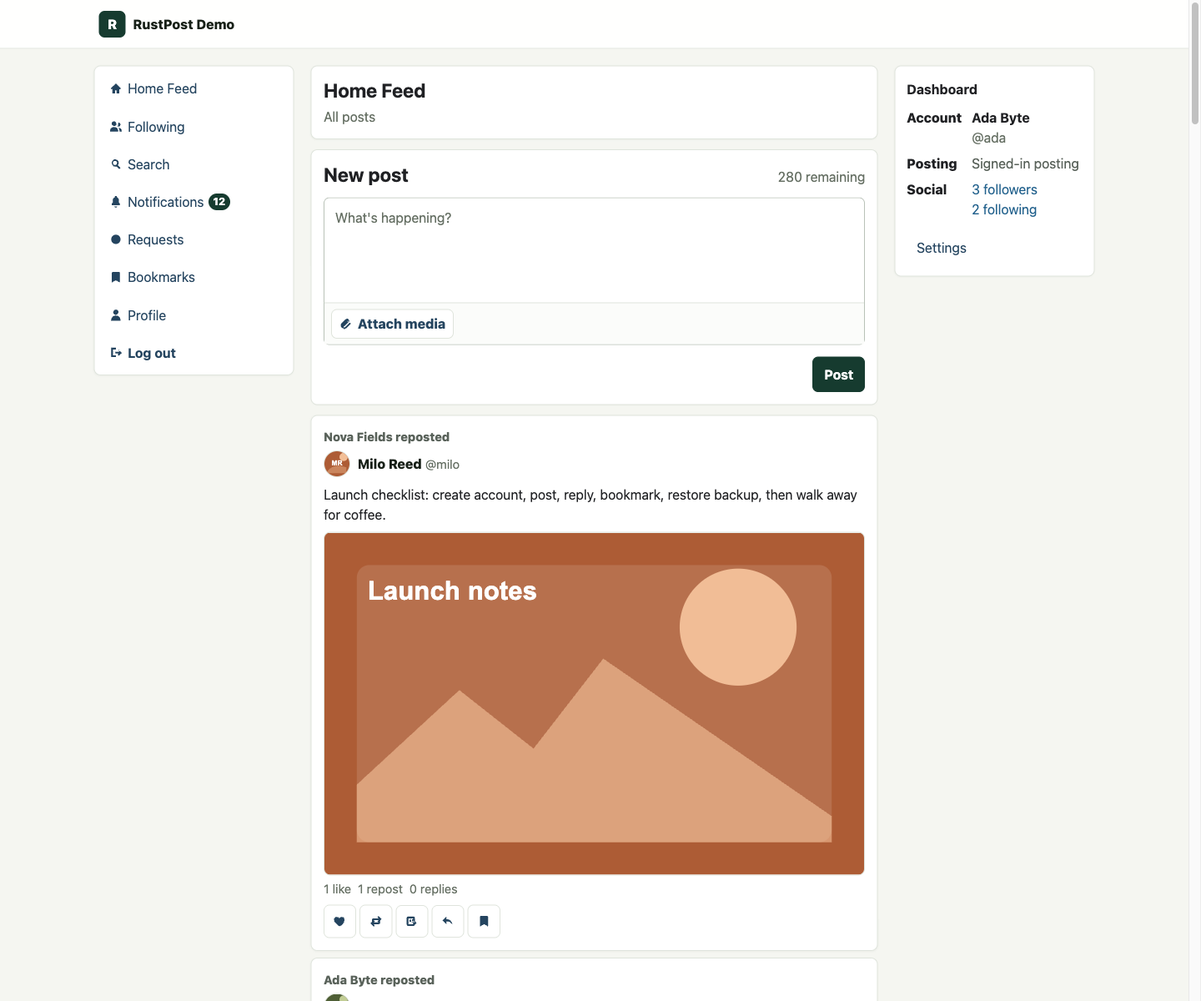
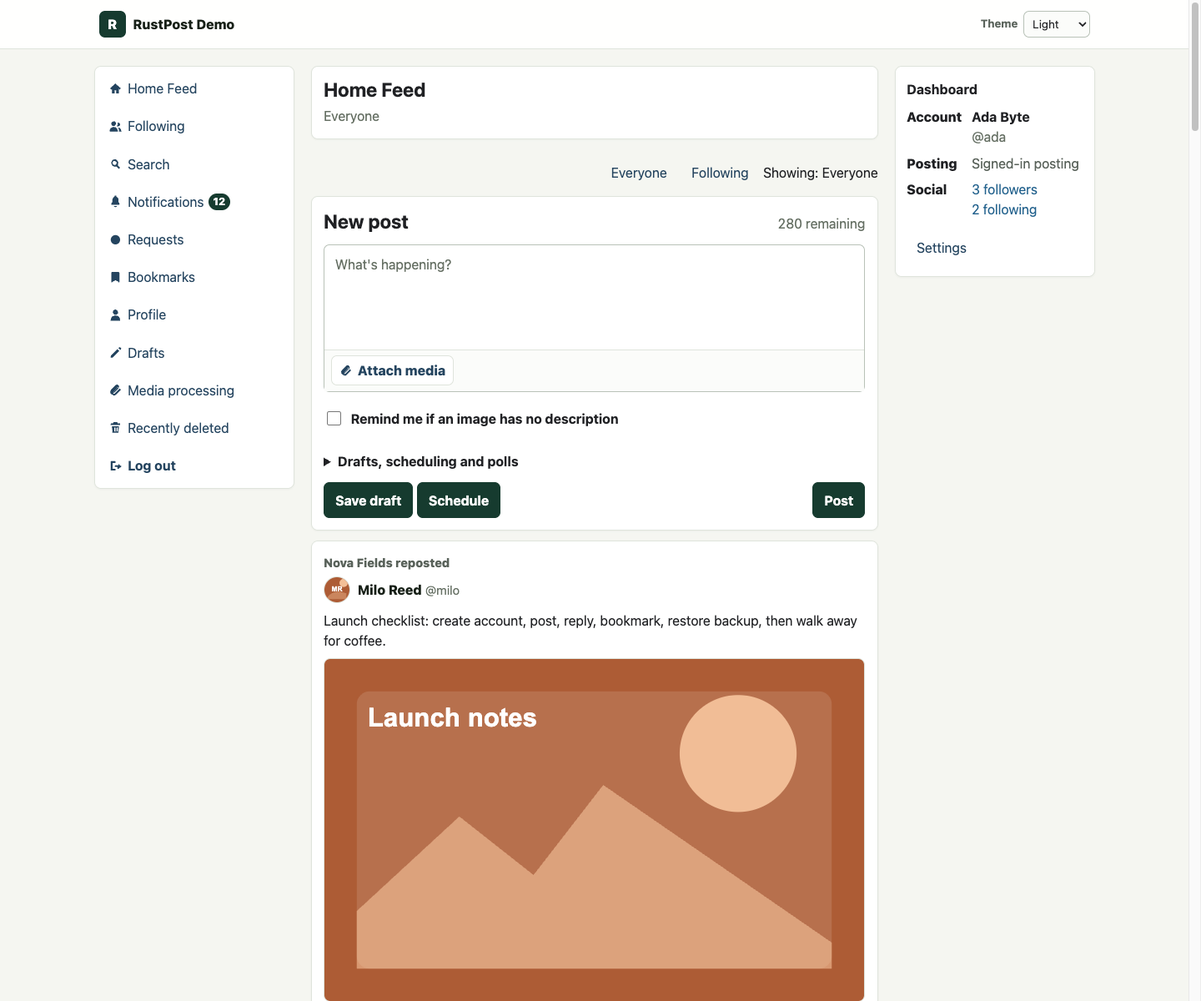
Remember the browser theme and refresh RustPost demos
Preserve existing account themes as fallback, document the recent interface refinements, and refresh compatible locked dependencies and workflow pins.

diff --git a/assets/site.css b/assets/site.css
@@ -16,7 +16,7 @@ main{padding:var(--shell-gap)}.app-shell{width:min(100%,var(--shell-max));margin
 .character-counter{display:inline-block;flex:0 0 auto;min-width:8.5rem;text-align:right;white-space:nowrap;font-variant-numeric:tabular-nums}.character-counter-normal{color:var(--muted)}.character-counter-warning{color:var(--warning)}.character-counter-danger{color:var(--danger)}
 .notifications-hero{background:var(--surface);border:1px solid var(--border);border-radius:8px;margin:0 0 var(--section-gap);padding:1rem;box-shadow:0 1px 2px var(--shadow);display:flex;align-items:center;justify-content:space-between;gap:1rem}.notifications-hero h1{margin:0;font-size:1.55rem;line-height:1.15}.notifications-hero p:not(.eyebrow){margin:.35rem 0 0;color:var(--muted-strong)}.caught-up-pill{display:inline-flex;align-items:center;min-height:2rem;border:1px solid var(--success-border);border-radius:999px;background:var(--success-bg);color:var(--text-strong);padding:.32rem .75rem;font-weight:800}.caught-up{padding:.75rem .85rem}.caught-up p{margin:0}.notification-group{margin:var(--section-gap) .15rem 0;color:var(--muted);font-size:.82rem;text-transform:uppercase;letter-spacing:.08em}.notification-group:first-child{margin-top:0}.notification-row{position:relative;display:grid;grid-template-columns:auto minmax(0,1fr) auto auto;gap:.75rem;align-items:start;background:var(--surface);border:1px solid var(--border);border-radius:8px;padding:.8rem;box-shadow:0 1px 2px var(--shadow)}.notification-row.unread{border-color:var(--border-strong);background:var(--surface-subtle)}.js-enabled .notification-row[data-card-href],.js-enabled .notification-row[data-card-form]{cursor:pointer}.js-enabled .notification-row[data-card-href]:hover,.js-enabled .notification-row[data-card-form]:hover{border-color:var(--border-strong);background:var(--hover)}.notification-kind{display:grid;place-items:center;width:2rem;height:2rem;border-radius:7px;background:var(--surface-muted);color:var(--link-strong);font-weight:900;font-size:.8rem}.notification-row.unread .notification-kind{background:var(--brand);color:var(--brand-text)}.notification-body{min-width:0}.notification-line{margin:0;overflow-wrap:anywhere}.notification-meta{margin:.35rem 0 0;color:var(--muted);font-size:.88rem}.notification-counts{color:var(--muted-strong);font-weight:800}.notification-preview{display:block;margin:.5rem 0 0;border:1px solid var(--border);border-radius:7px;padding:.55rem .65rem;background:var(--surface-subtle);color:var(--muted-strong);overflow-wrap:anywhere}.notification-preview:hover{background:var(--surface);text-decoration:none}.notification-preview.unavailable{border-style:dashed}.notification-actors{margin:.45rem 0 0}.notification-actors summary{display:inline-flex;align-items:center;min-height:1.7rem;color:var(--link-strong);font-weight:800;cursor:pointer}.notification-actors ul{list-style:none;margin:.25rem 0 0;padding:0;display:flex;flex-wrap:wrap;gap:.35rem}.notification-actors li{border:1px solid var(--border);border-radius:999px;background:var(--surface-subtle);padding:.16rem .5rem;font-size:.88rem}.notification-open-form{display:flex;align-items:flex-start}.notification-open{min-height:2rem;padding:.3rem .55rem;background:var(--surface);border-color:var(--border)}.unread-dot{width:.65rem;height:.65rem;border-radius:999px;background:var(--brand);margin-top:.7rem}
 label{display:block;font-weight:700;margin:.85rem 0 .35rem}input,textarea,button,select{font:inherit}input[type=text],input[type=search],input[type=password],input[type=url],input:not([type]),textarea,select{width:100%;padding:.72rem .8rem;border:1px solid var(--border-strong);border-radius:7px;background:var(--surface);color:var(--text)}textarea{resize:none;min-height:7rem}::placeholder{color:var(--muted)}
-input[type=checkbox]{accent-color:var(--brand)}.check-row,.theme-toggle{display:flex;align-items:center;gap:.55rem;font-weight:700;color:var(--text)}.theme-toggle{padding:.65rem .75rem;border:1px solid var(--border);border-radius:8px;background:var(--surface-subtle)}.theme-toggle input{width:auto}
+input[type=checkbox]{accent-color:var(--brand)}.check-row{display:flex;align-items:center;gap:.55rem;font-weight:700;color:var(--text)}
 input[type=text].password-visible{padding-right:.8rem}.password-control{display:grid;grid-template-columns:minmax(0,1fr) auto;gap:.45rem;align-items:center}.password-control input{min-width:0}.password-toggle{display:none;background:var(--surface);color:var(--link-strong);border-color:var(--border);min-width:4.5rem}.js-enabled .password-toggle{display:inline-block}.auth-submit{margin-top:1.15rem}.auth-form{margin-top:.35rem}.auth-form .field-help{margin:.15rem 0 .4rem;color:var(--muted-strong)}
 .search-panel h1{margin-bottom:.75rem}.search-form{display:grid;grid-template-columns:minmax(0,1fr) auto;gap:.55rem;align-items:center}.search-form input{min-width:0}.search-results{display:grid;gap:var(--section-gap)}.section-title{margin:.2rem 0 var(--section-gap);font-size:1.05rem;color:var(--text)}.search-results>.section-title{margin:0}.search-users{margin:0}.search-users .section-title{margin-top:0}.search-account{grid-template-columns:auto minmax(0,1fr)}
 input:focus,textarea:focus,select:focus,button:focus-visible,a:focus-visible{outline:3px solid var(--focus);outline-offset:2px}button,.primary{border:1px solid var(--brand);background:var(--brand);color:var(--brand-text);border-radius:7px;padding:.5rem .8rem;cursor:pointer;font-weight:700}button:hover,.primary:hover{background:var(--brand-hover);text-decoration:none}button:disabled,.primary:disabled,button:disabled:hover,.primary:disabled:hover{border-color:var(--border);background:var(--surface-muted);color:var(--muted);cursor:not-allowed;opacity:1}
@@ -81,3 +81,10 @@ button[aria-disabled=true]{cursor:wait}
   .composer-tools > .primary{margin-inline-start:auto}
   .settings-card[id],#profile-settings-form,#profile-save{scroll-margin-top:.75rem}
 }
+
+/* The browser preference sits in the shared header without changing the nav. */
+.header-brand-row{flex:1}
+.browser-theme:not([hidden]){display:flex;align-items:center;flex:0 0 auto;gap:.4rem;margin-inline-start:auto}
+.browser-theme label{margin:0;color:var(--muted-strong);font-size:.82rem}
+.browser-theme select{width:auto;min-height:2rem;padding:.2rem .4rem;background:var(--surface-subtle);font-size:.84rem}
+.browser-theme select:hover{background:var(--hover)}

diff --git a/assets/client-boot.js b/assets/client-boot.js
@@ -1,1 +1,58 @@
-document.documentElement.classList.add("js-enabled");
+(() => {
+  const root = document.documentElement;
+  root.classList.add("js-enabled");
+  const fallback = root.dataset.theme;
+  const key = "rustpost-theme";
+  let select;
+
+  function apply(preference) {
+    const explicit = preference === "light" || preference === "dark" ? preference : "";
+    root.dataset.theme = explicit || fallback;
+    if (select) select.value = explicit;
+  }
+
+  function readPreference() {
+    try {
+      return localStorage.getItem(key);
+    } catch {
+      return null;
+    }
+  }
+
+  // This script runs before the styles are parsed, using the existing same-origin CSP.
+  apply(readPreference());
+
+  document.addEventListener("DOMContentLoaded", () => {
+    select = document.getElementById("browser-theme");
+    if (!select) return;
+
+    // Re-read in case another tab changed the preference while this page loaded.
+    apply(readPreference());
+    select.parentElement.hidden = false;
+
+    select.addEventListener("change", () => {
+      const preference = select.value;
+      apply(preference);
+      try {
+        if (preference) localStorage.setItem(key, preference);
+        else localStorage.removeItem(key);
+      } catch {
+        // Keep the choice on this page when the browser disallows storage.
+      }
+    });
+  });
+
+  window.addEventListener("storage", event => {
+    if (event.key === key || event.key === null) {
+      try {
+        if (event.storageArea === localStorage) apply(readPreference());
+      } catch {
+        // The browser may restrict access to storage.
+      }
+    }
+  });
+
+  window.addEventListener("pageshow", event => {
+    if (event.persisted) apply(readPreference());
+  });
+})();

diff --git a/src/server/settings.rs b/src/server/settings.rs
@@ -126,7 +126,7 @@ pub(super) async fn settings_profile(
         Ok(conn
             .query_row(
                 r#"
-        SELECT u.display_name, u.bio, u.location, u.website, u.theme, u.nsfw_blur_enabled,
+        SELECT u.display_name, u.bio, u.location, u.website, u.nsfw_blur_enabled,
           u.liked_posts_public, u.follow_approval_required,
           pic.public_path AS profile_picture_path,
           banner.public_path AS banner_path
@@ -142,12 +142,11 @@ pub(super) async fn settings_profile(
                         bio: row.get(1)?,
                         location: row.get(2)?,
                         website: row.get(3)?,
-                        theme: row.get(4)?,
-                        nsfw_blur_enabled: row.get::<_, i64>(5)? != 0,
-                        liked_posts_public: row.get::<_, i64>(6)? != 0,
-                        follow_approval_required: row.get::<_, i64>(7)? != 0,
-                        picture_path: row.get(8)?,
-                        banner_path: row.get(9)?,
+                        nsfw_blur_enabled: row.get::<_, i64>(4)? != 0,
+                        liked_posts_public: row.get::<_, i64>(5)? != 0,
+                        follow_approval_required: row.get::<_, i64>(6)? != 0,
+                        picture_path: row.get(7)?,
+                        banner_path: row.get(8)?,
                     })
                 },
             )
@@ -487,12 +486,6 @@ pub(super) async fn settings_page(
     );
     let preference_switches = [
         settings_switch(
-            "dark_mode",
-            Theme::from(profile.theme.as_str()) == Theme::Dark,
-            "Dark mode",
-            "Use the darker color theme for your signed-in session.",
-        ),
-        settings_switch(
             "nsfw_blur_enabled",
             profile.nsfw_blur_enabled,
             "Blur NSFW media",
@@ -514,7 +507,7 @@ pub(super) async fn settings_page(
     .join("");
     let jump_links = r##"<nav class="settings-category-nav" aria-label="Settings sections"><a href="#profile-settings-form">Profile and privacy</a><a href="#muted-words">Muted words</a><a href="#blocked-users">Blocked and muted users</a><a href="#password">Password and username</a><a href="#account-data">Account data</a></nav>"##;
     let body = format!(
-        r#"{notice_html}<section class="panel settings-card settings-profile-editor" data-testid="settings-card"><div class="settings-editor-bar"><div><h1>Account settings</h1><p class="muted">Profile, privacy, media, and account controls.</p></div></div>{jump_links}<form id="profile-settings-form" method="post" enctype="multipart/form-data" class="settings-profile-form"><input type="hidden" name="csrf" value="{}"><div class="settings-section settings-section-media"><div class="settings-section-heading"><h2>Profile media</h2><p class="settings-section-help">Avatar and banner images for your profile header.</p></div>{}</div><div class="settings-section settings-section-profile"><div class="settings-section-heading"><h2>Profile</h2><p class="settings-section-help">Your name, bio, location, and link as shown on your profile.</p></div>{}</div><div class="settings-section settings-section-preferences"><div class="settings-section-heading"><h2>Preferences and privacy</h2><p class="settings-section-help">Control your display theme, NSFW media blur, and profile activity visibility.</p></div><div class="settings-switch-list">{}</div></div><div id="profile-save">{profile_confirmation}<div class="settings-form-actions"><button class="primary" type="submit">Save profile settings</button></div></div></form></section><div class="settings-grid"><section class="panel settings-card compact-panel settings-list-panel" id="blocked-users" data-testid="settings-card"><h2>Blocked users</h2>{blocked_confirmation}<p class="settings-section-help">Blocked accounts cannot follow or interact with you.</p>{}</section><section class="panel settings-card compact-panel settings-list-panel" id="muted-users" data-testid="settings-card"><h2>Muted users</h2>{muted_confirmation}<p class="settings-section-help">Muted accounts stay hidden from your views.</p>{}</section></div><section class="panel settings-card compact-panel settings-list-panel" id="muted-words" data-testid="settings-card"><h2>Muted words</h2>{word_confirmation}<p class="settings-section-help">Hide posts containing specific words or phrases.</p><form method="post" action="/settings/muted-words" class="inline-settings-form"><input type="hidden" name="csrf" value="{}"><label class="sr-only" for="muted-word">Word or phrase to mute</label><input id="muted-word" name="term" placeholder="Word or phrase" required><button type="submit">Add muted word</button></form>{}</section><section class="panel settings-card compact-panel settings-security-panel" id="password" data-testid="settings-card"><h2>Change password</h2>{password_confirmation}<p class="settings-section-help">Update the password used to sign in to this account.</p><form method="post" action="/settings/password" class="settings-password-form"><input type="hidden" name="csrf" value="{}"><label for="current_password">Current password</label><div class="password-control"><input id="current_password" name="current_password" type="password" autocomplete="current-password"><button type="button" class="password-toggle" data-password-toggle="current_password" aria-label="Show current password">Show</button></div><label for="new_password">New password</label><p class="field-help" id="new-password-requirement">{}</p><div class="password-control"><input id="new_password" name="new_password" type="password" autocomplete="new-password"{}><button type="button" class="password-toggle" data-password-toggle="new_password" aria-label="Show new password">Show</button></div><label for="confirm_new_password">Confirm new password</label><p class="field-help" id="confirm-new-password-requirement">{}</p><div class="password-control"><input id="confirm_new_password" name="confirm_new_password" type="password" autocomplete="new-password"{}><button type="button" class="password-toggle" data-password-toggle="confirm_new_password" aria-label="Show new password confirmation">Show</button></div><div class="settings-form-actions"><button type="submit">Change password</button></div></form></section>{username_panel}{account_data_panel}{delete_panel}"#,
+        r#"{notice_html}<section class="panel settings-card settings-profile-editor" data-testid="settings-card"><div class="settings-editor-bar"><div><h1>Account settings</h1><p class="muted">Profile, privacy, media, and account controls.</p></div></div>{jump_links}<form id="profile-settings-form" method="post" enctype="multipart/form-data" class="settings-profile-form"><input type="hidden" name="csrf" value="{}"><div class="settings-section settings-section-media"><div class="settings-section-heading"><h2>Profile media</h2><p class="settings-section-help">Avatar and banner images for your profile header.</p></div>{}</div><div class="settings-section settings-section-profile"><div class="settings-section-heading"><h2>Profile</h2><p class="settings-section-help">Your name, bio, location, and link as shown on your profile.</p></div>{}</div><div class="settings-section settings-section-preferences"><div class="settings-section-heading"><h2>Preferences and privacy</h2><p class="settings-section-help">Control NSFW media blur and profile activity visibility.</p></div><div class="settings-switch-list">{}</div></div><div id="profile-save">{profile_confirmation}<div class="settings-form-actions"><button class="primary" type="submit">Save profile settings</button></div></div></form></section><div class="settings-grid"><section class="panel settings-card compact-panel settings-list-panel" id="blocked-users" data-testid="settings-card"><h2>Blocked users</h2>{blocked_confirmation}<p class="settings-section-help">Blocked accounts cannot follow or interact with you.</p>{}</section><section class="panel settings-card compact-panel settings-list-panel" id="muted-users" data-testid="settings-card"><h2>Muted users</h2>{muted_confirmation}<p class="settings-section-help">Muted accounts stay hidden from your views.</p>{}</section></div><section class="panel settings-card compact-panel settings-list-panel" id="muted-words" data-testid="settings-card"><h2>Muted words</h2>{word_confirmation}<p class="settings-section-help">Hide posts containing specific words or phrases.</p><form method="post" action="/settings/muted-words" class="inline-settings-form"><input type="hidden" name="csrf" value="{}"><label class="sr-only" for="muted-word">Word or phrase to mute</label><input id="muted-word" name="term" placeholder="Word or phrase" required><button type="submit">Add muted word</button></form>{}</section><section class="panel settings-card compact-panel settings-security-panel" id="password" data-testid="settings-card"><h2>Change password</h2>{password_confirmation}<p class="settings-section-help">Update the password used to sign in to this account.</p><form method="post" action="/settings/password" class="settings-password-form"><input type="hidden" name="csrf" value="{}"><label for="current_password">Current password</label><div class="password-control"><input id="current_password" name="current_password" type="password" autocomplete="current-password"><button type="button" class="password-toggle" data-password-toggle="current_password" aria-label="Show current password">Show</button></div><label for="new_password">New password</label><p class="field-help" id="new-password-requirement">{}</p><div class="password-control"><input id="new_password" name="new_password" type="password" autocomplete="new-password"{}><button type="button" class="password-toggle" data-password-toggle="new_password" aria-label="Show new password">Show</button></div><label for="confirm_new_password">Confirm new password</label><p class="field-help" id="confirm-new-password-requirement">{}</p><div class="password-control"><input id="confirm_new_password" name="confirm_new_password" type="password" autocomplete="new-password"{}><button type="button" class="password-toggle" data-password-toggle="confirm_new_password" aria-label="Show new password confirmation">Show</button></div><div class="settings-form-actions"><button type="submit">Change password</button></div></form></section>{username_panel}{account_data_panel}{delete_panel}"#,
         html_escape::encode_double_quoted_attribute(&csrf),
         profile_media,
         profile_fields,
@@ -593,7 +586,6 @@ pub(super) async fn apply_profile_update(
     let bio = form.bio.trim().to_owned();
     let location = form.location.trim().to_owned();
     let website = form.website.trim().to_owned();
-    let theme = form.theme.as_str().to_owned();
     let nsfw_blur_enabled = i64::from(form.nsfw_blur_enabled);
     let liked_posts_public = i64::from(form.liked_posts_public);
     let follow_approval_required = i64::from(form.follow_approval_required);
@@ -617,13 +609,12 @@ pub(super) async fn apply_profile_update(
         .call(move |conn| {
             let tx = conn.transaction()?;
             let changed = tx.execute(
-                "UPDATE users SET display_name = ?, bio = ?, location = ?, website = ?, theme = ?, nsfw_blur_enabled = ?, liked_posts_public = ?, follow_approval_required = ?, updated_at = CURRENT_TIMESTAMP WHERE id = ? AND is_deleted = 0",
+                "UPDATE users SET display_name = ?, bio = ?, location = ?, website = ?, nsfw_blur_enabled = ?, liked_posts_public = ?, follow_approval_required = ?, updated_at = CURRENT_TIMESTAMP WHERE id = ? AND is_deleted = 0",
                 params![
                     display_name,
                     bio,
                     location,
                     website,
-                    theme,
                     nsfw_blur_enabled,
                     liked_posts_public,
                     follow_approval_required,

diff --git a/src/server/csrf_regressions/feature_http_regressions.rs b/src/server/csrf_regressions/feature_http_regressions.rs
@@ -1,6 +1,7 @@
 //! Exercise the production router and multipart ownership boundaries.
 
 use super::*;
+use anyhow::Context as _;
 use base64::Engine as _;
 
 fn png() -> anyhow::Result<Vec<u8>> {
@@ -70,6 +71,47 @@ async fn raw(
         .ok_or_else(|| anyhow::anyhow!("missing status"))?
         .parse()?;
     Ok((status, response))
+}
+
+#[tokio::test]
+async fn browser_theme_has_a_legacy_default_without_saving_through_profile_settings()
+-> anyhow::Result<()> {
+    let f = Fixture::new(30, 10).await?;
+    let user_id = f.user_id;
+    let (status, light) = f.request("GET", "/home", &[], "").await?;
+    assert_eq!(status, 200);
+    assert!(light.contains(r#"<html lang="en" data-theme="light">"#));
+    let (before_style, _) = light.split_once("<style>").context("missing page styles")?;
+    assert!(before_style.contains(r#"<script src="/assets/rustpost-boot.js"></script>"#));
+
+    f.state
+        .pool
+        .call(move |conn| {
+            conn.execute("UPDATE users SET theme = 'dark' WHERE id = ?", [user_id])?;
+            Ok(())
+        })
+        .await?;
+    let (status, settings) = f.request("GET", "/settings", &[], "").await?;
+    assert_eq!(status, 200);
+    assert!(settings.contains(r#"<html lang="en" data-theme="dark">"#));
+    assert!(settings.contains(r#"<label for="browser-theme">Theme</label>"#));
+    assert!(settings.contains(r#"<select id="browser-theme">"#));
+    assert!(!settings.contains(r#"name="dark_mode""#));
+
+    let body = multipart(
+        &[
+            ("csrf", f.session.csrf_token.clone()),
+            ("display_name", "Theme regression account".into()),
+        ],
+        None,
+    );
+    assert_eq!(
+        f.request("POST", "/settings", &body, MULTIPART).await?.0,
+        303
+    );
+    let (_, after) = f.request("GET", "/home", &[], "").await?;
+    assert!(after.contains(r#"<html lang="en" data-theme="dark">"#));
+    Ok(())
 }
 
 #[tokio::test]

diff --git a/src/render/layout.rs b/src/render/layout.rs
@@ -78,6 +78,7 @@ pub fn layout_with_context(
     let brand_mark = site_name.chars().next().unwrap_or('R');
     let left_rail = left_rail(user, &auth_nav);
     let side_panel = dashboard_panel(user, context);
+    // Retain previously saved account themes as a fallback for browsers without a choice.
     let theme = user.map_or(Theme::Light, |user| user.theme).as_str();
     let header_tor = tor_header_indicator(context.tor_onion_address.as_deref());
     let announcement = announcement_banner(context.announcement.as_deref());
@@ -99,7 +100,7 @@ pub fn layout_with_context(
 <script src="/assets/rustpost.js" defer></script>
 </head>
 <body>
-<header class="site-header"><div class="header-inner"><div class="header-brand-row"><a class="brand" href="/home"><span class="brand-mark">{}</span><span>{}</span></a>{}{}</div><nav class="mobile-nav" aria-label="Primary">{}</nav></div></header>
+<header class="site-header"><div class="header-inner"><div class="header-brand-row"><a class="brand" href="/home"><span class="brand-mark">{}</span><span>{}</span></a>{}{}<div class="browser-theme" hidden><label for="browser-theme">Theme</label><select id="browser-theme"><option value="">Default</option><option value="light">Light</option><option value="dark">Dark</option></select></div></div><nav class="mobile-nav" aria-label="Primary">{}</nav></div></header>
 {maintenance}{account_notice}
 <noscript><section class="noscript-banner" role="status"><strong>JavaScript is disabled.</strong> RustPost will use standard links and forms.</section></noscript>
 <main><div class="app-shell" data-testid="app-shell">{}<section class="primary-column" data-testid="primary-column">{} </section>{}</div></main>

diff --git a/src/server.rs b/src/server.rs
@@ -19,7 +19,7 @@ use tower_http::services::ServeDir;
 use tower_http::trace::TraceLayer;
 use uuid::Uuid;
 
-use crate::auth::{self, CurrentUser, Theme};
+use crate::auth::{self, CurrentUser};
 use crate::config::Settings;
 use crate::db::SqlitePool;
 use crate::errors::{AppError, AppResult, ComposerField};
@@ -609,7 +609,6 @@ struct ParsedProfileUpdate {
     bio: String,
     location: String,
     website: String,
-    theme: Theme,
     delete_profile_picture: bool,
     delete_banner: bool,
     nsfw_blur_enabled: bool,
@@ -908,7 +907,6 @@ struct SettingsProfile {
     bio: String,
     location: String,
     website: String,
-    theme: String,
     nsfw_blur_enabled: bool,
     liked_posts_public: bool,
     follow_approval_required: bool,

diff --git a/src/server/portability_routes.rs b/src/server/portability_routes.rs
@@ -366,7 +366,6 @@ pub(super) async fn parse_profile_update(
         bio: String::new(),
         location: String::new(),
         website: String::new(),
-        theme: Theme::Light,
         delete_profile_picture: false,
         delete_banner: false,
         nsfw_blur_enabled: false,
@@ -411,7 +410,6 @@ pub(super) async fn fill_profile_update_form(
                     validate_csrf(&state.pool, headers, &form.csrf_token).await?;
                 }
             }
-            "dark_mode" => form.theme = Theme::Dark,
             "nsfw_blur_enabled" => form.nsfw_blur_enabled = true,
             "liked_posts_public" => form.liked_posts_public = true,
             "follow_approval_required" => form.follow_approval_required = true,

diff --git a/docs/demo-preview.md b/docs/demo-preview.md
@@ -4,7 +4,7 @@
 
 The README screenshots show a local demo with fictional accounts, generated illustrations, and short sample videos. No real account data or internet media is used.
 
-The screenshot refresh for v1.0.0 was captured on September 29, 2026. Desktop images use a 1440 × 1200 browser viewport; the mobile image uses a 390 × 844 viewport.
+The v1.2.0 development screenshots were captured on November 27, 2026. Desktop images use a 1440 × 1200 browser viewport; the mobile image uses a 390 × 844 viewport.
 
 ## What you need
 
@@ -56,14 +56,14 @@ The generated database, uploads, temporary files, logs, and backups stay under t
 
 ## Reproduce the screenshots
 
-Log in as `ada`, then open these pages. Capture the visible browser viewport, rather than the full scrolling page, so text stays readable in the README.
+Log in as `ada`, then use **Theme** in the site header to select the theme listed for each page. Capture the visible browser viewport, rather than the full scrolling page, so text stays readable in the README.
 
-| Screenshot | Page | Viewport |
-| --- | --- | --- |
-| Home feed | `/home` | 1440 × 1200 |
-| Profile | `/users/nova` | 1440 × 1200 |
-| Conversation | `/posts/13` | 1440 × 1200 |
-| Image post | `/posts/2` | 1440 × 1200 |
-| Mobile | `/home` | 390 × 844 |
+| Screenshot | Page | Theme | Viewport |
+| --- | --- | --- | --- |
+| Home feed | `/home` | Light | 1440 × 1200 |
+| Profile | `/users/nova` | Dark | 1440 × 1200 |
+| Conversation | `/posts/13` | Dark | 1440 × 1200 |
+| Image post | `/posts/2` | Light | 1440 × 1200 |
+| Mobile | `/home` | Dark | 390 × 844 |
 
-These post IDs come from a freshly seeded database. Screenshots are saved in `docs/screenshots/`; browser logs and other temporary capture files should stay in the ignored `output/playwright/` directory.
+These post IDs come from a freshly seeded database. Screenshots are saved in `docs/screenshots/`. Keep temporary screenshots, logs, and browser profiles outside the checkout.

diff --git a/README.md b/README.md
@@ -76,7 +76,7 @@ See [Using RustPost](docs/account-and-instance-features.md) for everyday actions
 
 Read posts from the community and share an update from the same page.
 
-![RustPost home feed with a post composer, community posts, and social actions](docs/screenshots/home-feed.png)
+![Light-mode home feed with the post composer, feed filters, and a community post](docs/screenshots/home-feed.png)
 
 ### Profiles and conversations
 
@@ -84,7 +84,7 @@ Profiles bring a person's bio, follows, and posts together. Replies stay with th
 
 | Profile | Conversation |
 | --- | --- |
-| ![Profile with a banner, avatar, bio, and post tabs](docs/screenshots/profile.png) | ![Post thread with replies from several people](docs/screenshots/post-thread.png) |
+| ![Dark-mode profile with a banner, bio, follow controls, and post tabs](docs/screenshots/profile.png) | ![Dark-mode conversation with the original post and replies from several people](docs/screenshots/post-thread.png) |
 
 ### Media and mobile
 
@@ -92,7 +92,9 @@ Images appear within posts, and the layout adapts to smaller screens.
 
 | Image post | Phone layout |
 | --- | --- |
-| ![Image attachment and replies in a RustPost post](docs/screenshots/media-posts.png) | <img src="docs/screenshots/mobile.png" alt="RustPost home feed on a phone-sized screen" width="300"> |
+| ![Light-mode image post with a sample illustration, a reply, and a reply composer](docs/screenshots/media-posts.png) | <img src="docs/screenshots/mobile.png" alt="Dark-mode home feed on a phone-sized screen with the More menu and post composer" width="300"> |
+
+Use **Theme** in the site header to switch between light and dark. RustPost remembers your choice in this browser.
 
 These screenshots use fictional accounts and locally generated sample media. You can [run the same demo](docs/demo-preview.md) without using real account data.
 

diff --git a/CHANGELOG.md b/CHANGELOG.md
@@ -4,6 +4,11 @@ For installation, start with [Getting started](docs/getting-started.md). Entries
 
 ## v1.2.0 - Community tools and reliable operations (unreleased)
 
+- Keep the most-used links visible on smaller screens and put the rest in **More**. Keep your place when removing a bookmark with the keyboard.
+- See who you’re replying to and what needs fixing without losing what you typed. Get a confirmation when your post goes through, and avoid sending it twice.
+- See what was saved next to the account setting you changed. When you block someone, review what will happen before confirming.
+- Switch between light and dark in the site header. Your browser remembers your choice, even when you sign out.
+
 - Correct native draft edits that remove attachments while submitting their description fields; retain ownership/revision validation and shared-file safety. Recover interrupted backup capture markers under exclusive native ownership and report capture/recovery failures through readiness. Clarify that physical free-space checks are admission probes; atomic logical upload quotas remain separate.
 
 - Add private server-saved drafts, attachment descriptions, optimistic edits, UTC schedules, cancellation, and transactional restart-safe publication. Add optional browser-local description reminders and image previews.

diff --git a/docs/account-and-instance-features.md b/docs/account-and-instance-features.md
@@ -18,7 +18,9 @@ See [community tools](community-tools.md) for drafts, UTC scheduling, per-image 
 
 ## Set up your profile
 
-Open **Settings** to change your display name, bio, location, website, picture, banner, theme, and media-blur preferences. A username is your account handle; a display name is the name shown beside your posts.
+Open **Settings** to change your display name, bio, location, website, picture, banner, and media-blur preferences. A username is your account handle; a display name is the name shown beside your posts.
+
+Use **Theme** in the site header to choose **Light** or **Dark**. This choice is saved only in this browser profile for this RustPost site, even when signed out. **Default** clears the browser choice and uses light mode, or an older account theme if you previously saved one.
 
 To change your username, use the **Username** panel and confirm your current password. Your posts, follows, and account identity stay with you. Previous usernames remain reserved while the account exists, and old profile URLs show history rather than silently becoming another person's profile. See [Username history](account-reference.md#username-changes-and-history-34).
 

diff --git a/docs/account-reference.md b/docs/account-reference.md
@@ -90,7 +90,7 @@ A gzip-compressed tar archive (`.tar.gz`) containing:
 | Entry | Contents |
 | --- | --- |
 | `manifest.json` | format version, app name, creation timestamp, random archive id, archive handle |
-| `profile.json` | display name, bio, location, website, theme, NSFW blur, liked-posts visibility, follow-approval preference |
+| `profile.json` | display name, bio, location, website, legacy account theme (not the browser choice), NSFW blur, liked-posts visibility, follow-approval preference |
 | `posts.json` | the account's posts, replies, and quotes with archive-local ids and remapped parent/root/quote references |
 | `media.json` | media metadata (kind, MIME type, filename, byte length, alt text, NSFW flag, SHA-256) |
 | `media/...` | media bytes for every entry in `media.json` (yes, bytes are included) |
